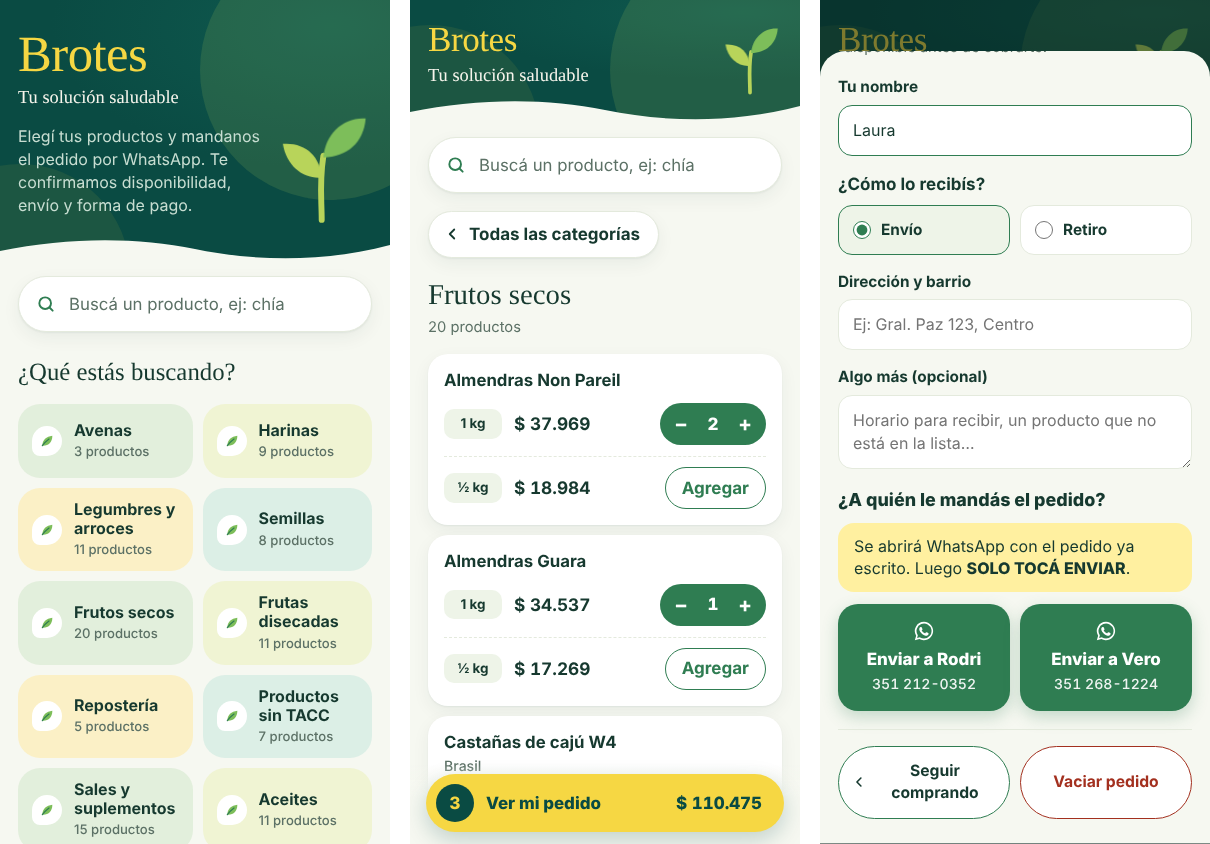
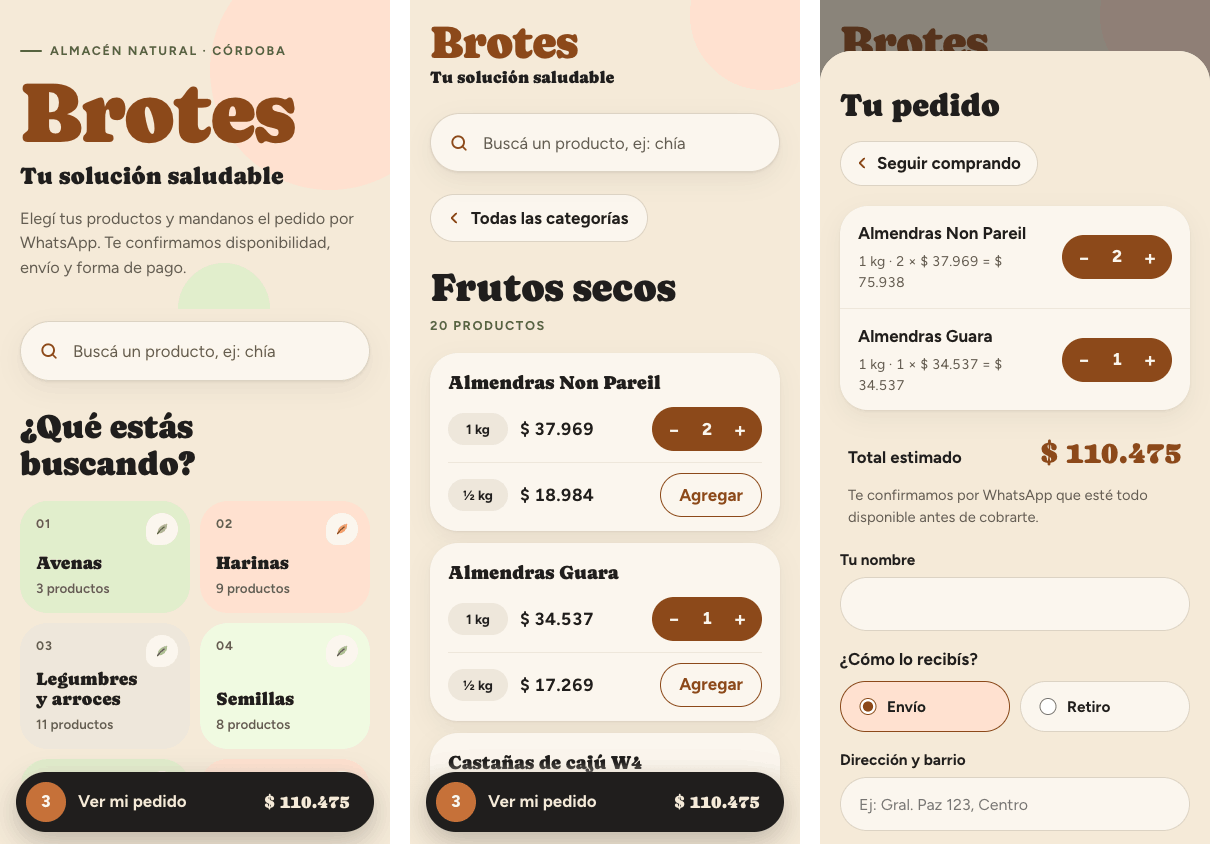
Nueva estética editorial cálida desde Claude Design
Paleta crema, terracota y salvia con Caprasimo y Figtree;
categorías numeradas y barra del pedido en tinta oscura.
El funcionamiento (pedido, WhatsApp, planilla) no cambia.

Claude-Session: https://claude.ai/code/session_01XDj7AVGkVDXmeHBmtjphLD

diff --git a/index.html b/index.html
@@ -3,55 +3,66 @@
 <head>
 <meta charset="utf-8">
 <meta name="viewport" content="width=device-width, initial-scale=1, viewport-fit=cover">
-<meta name="theme-color" content="#0A4B43">
+<meta name="theme-color" content="#F5EAD8">
 <title>Tienda Brotes</title>
 <meta name="claude:viewport-fit-sides" content="cover">
 <meta name="description" content="Brotes, tu solución saludable. Elegí tus productos y mandá tu pedido por WhatsApp.">
 <link rel="preconnect" href="https://fonts.googleapis.com">
 <link rel="preconnect" href="https://fonts.gstatic.com" crossorigin>
-<link rel="stylesheet" href="https://fonts.googleapis.com/css2?family=Bree+Serif&family=Figtree:wght@400;500;600;700;800&display=swap">
+<link rel="stylesheet" href="https://fonts.googleapis.com/css2?family=Caprasimo&family=Figtree:wght@400;500;600;700;800&display=swap">
 <style>
-/* Layout: cabecera verde de marca con un brote dibujado y borde en curva (el único gesto fuerte);
-   abajo todo calmo: fondo fresco, buscador redondo, categorías como pastillas de colores suaves, productos en tarjetas; barra amarilla del pedido */
+/* Estética "editorial cálido": papel crema, tinta cálida, terracota y salvia; Caprasimo como voz tipográfica sobre Figtree */
 :root{
-  --marca:#0A4B43; --marca-2:#0F5A4F; --hoja:#2F7D52; --amarillo:#F6D743; --lima:#B8D45A; --lima-2:#7DBE5A;
-  --fondo:#F6F8F1; --tarjeta:#FFFFFF; --tinta:#16392F; --suave:#5C7166; --linea:#E4EADD; --tenue:#EEF4E8;
-  --t1:#E2EFDC; --t2:#F0F4D3; --t3:#FBF0C6; --t4:#DCEFE6;
-  --sobre-marca:#F7F5EC; --sobre-marca-suave:#C7DDD1; --sobre-amarillo:#0A4B43; --resalte:#FFF0A0;
-  --error:#A3301F; --peligro-fondo:#FBEDE9; --sombra:0 1px 2px rgb(22 57 47 / .06), 0 6px 18px rgb(22 57 47 / .06);
-  --display:'Bree Serif', Georgia, serif; --texto:'Figtree', 'Segoe UI', system-ui, sans-serif;
+  --marca:#8C491A; --marca-2:#B2622D; --hoja:#56633F; --amarillo:#C67139; --lima:#AEBF92; --lima-2:#C67139;
+  --fondo:#F5EAD8; --tarjeta:#FBF6EE; --tinta:#201E1D; --suave:#645C50; --linea:#DCD3C4; --tenue:#EEE7DB;
+  --t1:#E1EECC; --t2:#FFE1D0; --t3:#EEE7DB; --t4:#F0FAE1;
+  --acento:#8C491A; --acento-fuerte:#643312; --acento-suave:#FFE1D0; --salvia:#56633F; --salvia-fuerte:#3D472B; --salvia-suave:#E1EECC;
+  --sobre-marca:#FBF6EE; --sobre-marca-suave:#645C50; --sobre-amarillo:#FBF6EE; --resalte:#FFE1D0;
+  --error:#A3301F; --peligro-fondo:#FBE3DC; --sombra:0 1px 2px rgb(46 43 37 / .08), 0 8px 24px rgb(46 43 37 / .07);
+  --display:'Caprasimo', Georgia, serif; --texto:'Figtree', 'Segoe UI', system-ui, sans-serif;
 }
 @media (prefers-color-scheme: dark){:root:not([data-theme="light"]){
-  --fondo:#0D211C; --tarjeta:#132F28; --tinta:#E8F1E5; --suave:#A7C0B3; --linea:#23453B; --tenue:#1A3D34;
-  --t1:#1C4136; --t2:#2A3F25; --t3:#3E3A1C; --t4:#173E37;
-  --resalte:#5A5020; --error:#FF9F91; --peligro-fondo:#3A201B; --sombra:0 1px 2px rgb(0 0 0 / .3); color-scheme:dark}}
+  --fondo:#1C1814; --tarjeta:#29231D; --tinta:#F3E9DA; --suave:#C0B6A5; --linea:#3F372E; --tenue:#342D25;
+  --t1:#2E3524; --t2:#3E2A1D; --t3:#332C24; --t4:#28301F;
+  --acento:#F6A06B; --acento-fuerte:#FFC6A5; --acento-suave:#402310; --salvia:#AEBF92; --salvia-fuerte:#CCDBB2; --salvia-suave:#272E1B;
+  --hoja:#728157; --resalte:#4A2A14; --error:#FF9F91; --peligro-fondo:#3A201B; --sombra:0 1px 2px rgb(0 0 0 / .35); color-scheme:dark}}
 :root[data-theme="dark"]{
-  --fondo:#0D211C; --tarjeta:#132F28; --tinta:#E8F1E5; --suave:#A7C0B3; --linea:#23453B; --tenue:#1A3D34;
-  --t1:#1C4136; --t2:#2A3F25; --t3:#3E3A1C; --t4:#173E37;
-  --resalte:#5A5020; --error:#FF9F91; --peligro-fondo:#3A201B; --sombra:0 1px 2px rgb(0 0 0 / .3); color-scheme:dark}
+  --fondo:#1C1814; --tarjeta:#29231D; --tinta:#F3E9DA; --suave:#C0B6A5; --linea:#3F372E; --tenue:#342D25;
+  --t1:#2E3524; --t2:#3E2A1D; --t3:#332C24; --t4:#28301F;
+  --acento:#F6A06B; --acento-fuerte:#FFC6A5; --acento-suave:#402310; --salvia:#AEBF92; --salvia-fuerte:#CCDBB2; --salvia-suave:#272E1B;
+  --hoja:#728157; --resalte:#4A2A14; --error:#FF9F91; --peligro-fondo:#3A201B; --sombra:0 1px 2px rgb(0 0 0 / .35); color-scheme:dark}
 *{box-sizing:border-box}
 [hidden]{display:none!important}
-body{margin:0;background:var(--fondo);color:var(--tinta);font-family:var(--texto);font-size:17px;line-height:1.45;-webkit-font-smoothing:antialiased}
-body::before{content:"";position:fixed;inset:0 0 auto;height:env(safe-area-inset-top,0px);z-index:30;background:var(--marca)}
-.ancho{max-width:720px;margin:0 auto;padding-left:max(18px,env(safe-area-inset-left,0px));padding-right:max(18px,env(safe-area-inset-right,0px))}
+body{margin:0;background:var(--fondo);color:var(--tinta);font-family:var(--texto);font-size:17px;line-height:1.5;-webkit-font-smoothing:antialiased}
+body::before{content:"";position:fixed;inset:0 0 auto;height:env(safe-area-inset-top,0px);z-index:30;background:var(--fondo)}
+.ancho{max-width:720px;margin:0 auto;padding-left:max(20px,env(safe-area-inset-left,0px));padding-right:max(20px,env(safe-area-inset-right,0px))}
 button,input,textarea{font:inherit;color:inherit}
-:focus-visible{outline:3px solid var(--lima-2);outline-offset:2px}
+a{color:var(--acento)} a:hover{color:var(--acento-fuerte)}
+:focus-visible{outline:3px solid var(--amarillo);outline-offset:2px}
+::selection{background:var(--acento-suave)}
 
-/* Cabecera */
-.hero{position:relative;overflow:hidden;background:radial-gradient(120% 90% at 85% 10%,var(--marca-2) 0%,var(--marca) 60%);color:var(--sobre-marca)}
-.hero .circulo{position:absolute;right:-70px;top:-60px;width:260px;height:260px;border-radius:50%;background:var(--lima);opacity:.14}
-.hero .circulo.dos{right:auto;left:-90px;top:auto;bottom:-120px;width:220px;height:220px;opacity:.08;background:var(--amarillo)}
-.hero-in{position:relative;display:grid;grid-template-columns:1fr auto;align-items:end;gap:8px;padding-block:30px 46px}
-.marca{font-family:var(--display);font-weight:400;font-size:clamp(3rem,13vw,4.4rem);line-height:.95;color:var(--amarillo);margin:0;letter-spacing:-.5px}
-.lema{font-family:var(--display);font-size:clamp(1.15rem,4.6vw,1.4rem);margin:6px 0 0;color:var(--sobre-marca)}
-.intro{margin:14px 0 0;color:var(--sobre-marca-suave);max-width:34ch;font-size:1rem}
-.brote{width:clamp(92px,26vw,132px);height:auto;margin-bottom:-6px}
-.ola{position:absolute;left:0;right:0;bottom:-1px;width:100%;height:28px;display:block}
-.ola path{fill:var(--fondo)}
-body.dentro .intro{display:none}
-body.dentro .hero-in{padding-block:20px 36px}
-body.dentro .marca{font-size:clamp(2.2rem,9vw,2.8rem)}
-body.dentro .brote{width:64px}
+/* Cabecera editorial */
+.hero{position:relative;overflow:hidden;background:var(--fondo);color:var(--tinta)}
+.hero .circulo{position:absolute;right:-60px;top:-50px;width:240px;height:240px;border-radius:50%;background:var(--acento-suave)}
+.hero .circulo.dos{right:auto;left:auto;right:120px;top:auto;bottom:-46px;width:92px;height:92px;background:var(--salvia-suave)}
+.hero-in{position:relative;display:grid;grid-template-columns:1fr auto;align-items:end;gap:8px;padding-block:34px 30px}
+.kicker{display:inline-flex;white-space:nowrap;align-items:center;gap:8px;margin:0 0 14px;font-size:.78rem;font-weight:700;letter-spacing:.14em;text-transform:uppercase;color:var(--salvia)}
+.kicker::before{content:"";width:22px;height:2px;border-radius:2px;background:currentColor}
+.marca{font-family:var(--display);font-weight:400;font-size:clamp(3.4rem,16vw,5.4rem);line-height:.9;color:var(--acento);margin:0;letter-spacing:-.02em}
+.lema{font-family:var(--display);font-size:clamp(1.2rem,5vw,1.5rem);margin:10px 0 0;color:var(--tinta);line-height:1.15}
+.intro{margin:16px 0 0;color:var(--suave);max-width:32ch;font-size:1.02rem;text-wrap:pretty}
+.brote{display:none}
+.brote .tallo{stroke:var(--salvia)}
+.brote .hoja-i{fill:var(--lima)}
+.brote .hoja-d{fill:var(--salvia)}
+.ola{display:none}
+body.dentro .intro,body.dentro .kicker{display:none}
+body.dentro .hero-in{padding-block:22px 14px}
+body.dentro .marca{font-size:clamp(2.3rem,10vw,2.9rem)}
+body.dentro .lema{font-size:1.05rem;margin-top:4px}
+body.dentro .brote{width:58px}
+body.dentro .hero .circulo{width:150px;height:150px;top:-60px;right:-40px}
+body.dentro .hero .circulo.dos{display:none}
 @media (prefers-reduced-motion:no-preference){
   .tallo{stroke-dasharray:90;stroke-dashoffset:90;animation:crece .9s .15s ease-out forwards}
   .hoja-i,.hoja-d{transform-box:fill-box;transform:scale(0);animation:abre .6s ease-out forwards}
@@ -65,110 +76,128 @@ body.dentro .brote{width:64px}
 .barra{position:sticky;top:env(safe-area-inset-top,0px);z-index:20;background:var(--fondo)}
 .barra .ancho{padding-block:12px}
 .buscar{position:relative}
-.buscar input{width:100%;padding:15px 48px 15px 50px;border:1.5px solid var(--linea);border-radius:999px;background:var(--tarjeta);font-size:1.05rem;box-shadow:var(--sombra)}
+.buscar input{width:100%;padding:16px 50px 16px 52px;border:1.5px solid var(--linea);border-radius:999px;background:var(--tarjeta);font-size:1.05rem;box-shadow:var(--sombra);transition:border-color .15s}
 .buscar input::placeholder{color:var(--suave)}
-.buscar input:focus{border-color:var(--hoja);outline:none}
+.buscar input:hover{border-color:var(--suave)}
+.buscar input:focus{border-color:var(--acento);outline:none}
 .buscar input::-webkit-search-cancel-button{display:none}
-.buscar svg{position:absolute;left:18px;top:50%;transform:translateY(-50%);width:20px;height:20px;stroke:var(--hoja)}
-.limpiar{position:absolute;right:9px;top:50%;transform:translateY(-50%);width:36px;height:36px;border:0;border-radius:999px;background:var(--tenue);cursor:pointer;font-size:1.15rem;line-height:1}
+.buscar svg{position:absolute;left:19px;top:50%;transform:translateY(-50%);width:20px;height:20px;stroke:var(--acento)}
+.limpiar{position:absolute;right:9px;top:50%;transform:translateY(-50%);width:38px;height:38px;border:0;border-radius:999px;background:var(--tenue);cursor:pointer;font-size:1.2rem;line-height:1}
+.limpiar:hover{background:var(--linea)}
 
-/* Inicio: categorías */
-main .ancho{padding-block:6px 150px;display:flex;flex-direction:column;gap:28px}
-.preg{font-family:var(--display);font-weight:400;font-size:1.55rem;margin:4px 0 14px;text-wrap:balance}
-.pastillas{display:grid;grid-template-columns:1fr 1fr;gap:10px}
-.pastilla{display:flex;align-items:center;gap:12px;min-height:74px;padding:12px 14px;border:0;border-radius:22px;cursor:pointer;text-align:left;color:var(--tinta);background:var(--t1);transition:transform .12s}
+/* Inicio: categorías como índice editorial */
+main .ancho{padding-block:10px 150px;display:flex;flex-direction:column;gap:32px}
+.preg{font-family:var(--display);font-weight:400;font-size:clamp(1.7rem,7vw,2.1rem);line-height:1.1;margin:6px 0 18px;text-wrap:balance;letter-spacing:-.01em}
+.pastillas{display:grid;grid-template-columns:1fr 1fr;gap:10px;counter-reset:cat}
+.pastilla{counter-increment:cat;position:relative;display:flex;flex-direction:column;justify-content:flex-end;gap:2px;min-height:112px;padding:16px 16px 15px;border:0;border-radius:28px;cursor:pointer;text-align:left;color:var(--tinta);background:var(--t1);transition:transform .12s,filter .15s}
 .pastilla:nth-child(4n+2){background:var(--t2)}
 .pastilla:nth-child(4n+3){background:var(--t3)}
 .pastilla:nth-child(4n+4){background:var(--t4)}
-.pastilla .sem{flex:none;width:30px;height:30px;border-radius:50% 50% 50% 8px;background:var(--tarjeta);display:grid;place-items:center}
+.pastilla::before{content:counter(cat,decimal-leading-zero);position:absolute;top:14px;left:16px;font-size:.78rem;font-weight:700;letter-spacing:.08em;color:var(--suave);font-variant-numeric:tabular-nums}
+.pastilla .sem{position:absolute;top:12px;right:12px;width:32px;height:32px;border-radius:50% 50% 50% 10px;background:var(--tarjeta);display:grid;place-items:center}
 .pastilla .sem svg{width:16px;height:16px}
-.pastilla .txt{display:flex;flex-direction:column;min-width:0}
-.pastilla b{font-weight:700;font-size:1rem;line-height:1.2}
-.pastilla small{font-size:.82rem;color:var(--suave);font-weight:500;margin-top:2px}
+.pastilla .sem svg path:first-child{fill:var(--lima)}
+.pastilla .sem svg path:last-child{stroke:var(--salvia)}
+.pastilla:nth-child(4n+2) .sem svg path:first-child{fill:#F6A06B}
+.pastilla:nth-child(4n+2) .sem svg path:last-child{stroke:#8C491A}
+.pastilla .txt{display:flex;flex-direction:column;min-width:0;padding-top:30px}
+.pastilla b{font-family:var(--display);font-weight:400;font-size:1.14rem;line-height:1.12;text-wrap:balance}
+.pastilla small{font-size:.84rem;color:var(--suave);font-weight:600;margin-top:4px}
+.pastilla:hover{filter:brightness(.97)}
 .pastilla:active{transform:scale(.97)}
 @media (min-width:620px){.pastillas{grid-template-columns:repeat(3,1fr)}}
 
 /* Lista de productos */
 .vista{display:flex;flex-direction:column;gap:14px}
-.volver{align-self:flex-start;display:inline-flex;align-items:center;gap:8px;border:1.5px solid var(--linea);background:var(--tarjeta);color:var(--tinta);border-radius:999px;padding:10px 18px 10px 14px;font-weight:700;cursor:pointer;box-shadow:var(--sombra)}
-.volver svg{width:18px;height:18px}
-.titulo-lista{font-family:var(--display);font-weight:400;font-size:1.8rem;line-height:1.15;margin:6px 0 0;text-wrap:balance}
-.cuantos{margin:-8px 0 2px;color:var(--suave);font-size:.92rem}
-.lista{display:flex;flex-direction:column;gap:10px}
-.prod{background:var(--tarjeta);border-radius:20px;padding:16px;display:flex;flex-direction:column;gap:10px;box-shadow:var(--sombra)}
-.prod h3{margin:0;font-size:1.05rem;font-weight:700;line-height:1.3}
-.prod .det{display:block;font-weight:500;font-size:.88rem;color:var(--suave);margin-top:3px}
-.prod .de{font-size:.8rem;font-weight:600;color:var(--hoja)}
-.opt{display:grid;grid-template-columns:auto 1fr auto;align-items:center;gap:12px;min-height:44px}
-.opt+.opt{border-top:1px dashed var(--linea);padding-top:10px}
-.pres{font-size:.84rem;font-weight:700;background:var(--tenue);border-radius:10px;padding:5px 9px;min-width:58px;text-align:center}
-.precio{font-variant-numeric:tabular-nums;font-weight:700;font-size:1.08rem}
+.volver{align-self:flex-start;display:inline-flex;align-items:center;gap:8px;border:1.5px solid var(--linea);background:var(--tarjeta);color:var(--tinta);border-radius:999px;padding:10px 18px 10px 14px;font-weight:700;cursor:pointer}
+.volver:hover{border-color:var(--suave)}
+.volver svg{width:18px;height:18px;color:var(--acento)}
+.titulo-lista{font-family:var(--display);font-weight:400;font-size:clamp(2rem,8vw,2.5rem);line-height:1.05;margin:10px 0 0;text-wrap:balance;letter-spacing:-.01em}
+.cuantos{margin:-6px 0 4px;color:var(--salvia);font-size:.8rem;font-weight:700;letter-spacing:.12em;text-transform:uppercase}
+.lista{display:flex;flex-direction:column;gap:12px}
+.prod{background:var(--tarjeta);border-radius:28px;padding:18px 18px 14px;display:flex;flex-direction:column;gap:10px;box-shadow:var(--sombra)}
+.prod h3{margin:0 0 2px;font-family:var(--display);font-weight:400;font-size:1.2rem;line-height:1.2;letter-spacing:-.005em}
+.prod .det{display:block;font-family:var(--texto);font-weight:500;font-size:.9rem;color:var(--suave);margin-top:4px;line-height:1.4}
+.prod .de{align-self:flex-start;font-size:.74rem;font-weight:700;letter-spacing:.1em;text-transform:uppercase;color:var(--salvia);background:var(--salvia-suave);border-radius:999px;padding:3px 10px}
+.opt{display:grid;grid-template-columns:auto 1fr auto;align-items:center;gap:12px;min-height:46px}
+.opt+.opt{border-top:1px solid var(--tenue);padding-top:10px}
+.pres{font-size:.84rem;font-weight:700;background:var(--tenue);border-radius:999px;padding:6px 10px;min-width:60px;text-align:center}
+.precio{font-variant-numeric:tabular-nums;font-weight:700;font-size:1.1rem}
 .sin{font-size:.85rem;font-weight:700;color:var(--error)}
-.agregar{border:1.5px solid var(--hoja);background:var(--tarjeta);color:var(--hoja);border-radius:999px;height:42px;padding:0 16px;font-weight:700;cursor:pointer;white-space:nowrap}
-.agregar:disabled{border-color:var(--linea);color:var(--suave);cursor:default}
-.paso{display:flex;align-items:center;border-radius:999px;background:var(--hoja);color:#FFFFFF}
-.paso button{width:42px;height:42px;border:0;background:none;color:inherit;font-size:1.3rem;font-weight:700;cursor:pointer;border-radius:999px}
+.agregar{border:1.5px solid var(--acento);background:transparent;color:var(--acento);border-radius:999px;height:44px;padding:0 18px;font-weight:700;cursor:pointer;white-space:nowrap;transition:background .15s}
+.agregar:hover:not(:disabled){background:var(--acento-suave)}
+.agregar:disabled{border-color:var(--linea);color:var(--suave);cursor:default;opacity:.7}
+.paso{display:flex;align-items:center;border-radius:999px;background:var(--acento);color:var(--tarjeta)}
+.paso button{width:44px;height:44px;border:0;background:none;color:inherit;font-size:1.3rem;font-weight:700;cursor:pointer;border-radius:999px}
+.paso button:hover{background:rgb(0 0 0 / .12)}
 .paso output{min-width:22px;text-align:center;font-weight:800;font-variant-numeric:tabular-nums}
-.vacio{padding:26px;text-align:center;color:var(--suave);background:var(--tarjeta);border-radius:20px;margin:0}
+.vacio{padding:28px;text-align:center;color:var(--suave);background:var(--tarjeta);border-radius:28px;margin:0;text-wrap:pretty}
 
-.pie{color:var(--suave);font-size:.92rem;display:flex;flex-direction:column;gap:6px;padding-top:18px;border-top:1px solid var(--linea)}
-.pie p{margin:0}
-.pie strong{color:var(--tinta)}
+.pie{color:var(--suave);font-size:.94rem;display:flex;flex-direction:column;gap:6px;padding:22px;border-radius:28px;background:var(--tenue)}
+.pie p{margin:0;text-wrap:pretty}
+.pie strong{color:var(--tinta);font-family:var(--display);font-weight:400;font-size:1.15rem;display:block;margin-bottom:2px}
 .credito{margin-top:10px!important;font-size:.82rem}
 .credito a{color:inherit}
 
 /* Barra del pedido */
 .carrito{position:fixed;left:0;right:0;bottom:0;z-index:25;padding:10px max(16px,env(safe-area-inset-right,0px)) calc(12px + env(safe-area-inset-bottom,0px)) max(16px,env(safe-area-inset-left,0px));background:linear-gradient(to top,var(--fondo) 60%,transparent)}
-.carrito button{display:flex;align-items:center;gap:12px;width:100%;max-width:688px;margin:0 auto;border:0;border-radius:999px;padding:10px 22px 10px 10px;background:var(--amarillo);color:var(--sobre-amarillo);font-weight:800;font-size:1.06rem;cursor:pointer;box-shadow:0 8px 22px rgb(10 75 67 / .22)}
-.carrito .n{display:grid;place-items:center;min-width:38px;height:38px;padding:0 8px;border-radius:999px;background:var(--marca);color:var(--amarillo);font-variant-numeric:tabular-nums}
-.carrito .tot{margin-left:auto;font-variant-numeric:tabular-nums}
+.carrito button{display:flex;align-items:center;gap:12px;width:100%;max-width:688px;margin:0 auto;border:0;border-radius:999px;padding:10px 24px 10px 10px;background:var(--tinta);color:var(--fondo);font-weight:700;font-size:1.06rem;cursor:pointer;box-shadow:0 10px 28px rgb(46 43 37 / .28)}
+.carrito .n{display:grid;place-items:center;min-width:40px;height:40px;padding:0 8px;border-radius:999px;background:#C67139;color:#FBF6EE;font-weight:800;font-variant-numeric:tabular-nums}
+.carrito .tot{margin-left:auto;font-family:var(--display);font-weight:400;font-size:1.15rem;font-variant-numeric:tabular-nums}
 @media (prefers-reduced-motion:no-preference){.carrito:not([hidden]) button{animation:asoma .25s ease-out}@keyframes asoma{from{transform:translateY(16px)}to{transform:none}}}
 
 /* Hoja del pedido */
-.velo{position:fixed;inset:0;z-index:40;background:rgb(6 30 25 / .5);display:flex;align-items:flex-end;justify-content:center}
-.hoja{background:var(--fondo);width:100%;max-width:620px;max-height:94%;overflow-y:auto;border-radius:26px 26px 0 0;padding:10px max(18px,env(safe-area-inset-right,0px)) calc(24px + env(safe-area-inset-bottom,0px)) max(18px,env(safe-area-inset-left,0px));display:flex;flex-direction:column;gap:18px}
+.velo{position:fixed;inset:0;z-index:40;background:rgb(32 30 29 / .5);display:flex;align-items:flex-end;justify-content:center}
+.hoja{background:var(--fondo);width:100%;max-width:620px;max-height:94%;overflow-y:auto;border-radius:32px 32px 0 0;padding:10px max(20px,env(safe-area-inset-right,0px)) calc(24px + env(safe-area-inset-bottom,0px)) max(20px,env(safe-area-inset-left,0px));display:flex;flex-direction:column;gap:20px}
 .hoja::before{content:"";align-self:center;width:44px;height:5px;border-radius:9px;background:var(--linea)}
-@media (min-width:700px){.velo{align-items:center}.hoja{border-radius:26px;max-height:90%}.hoja::before{display:none}}
+@media (min-width:700px){.velo{align-items:center}.hoja{border-radius:32px;max-height:90%}.hoja::before{display:none}}
 @media (prefers-reduced-motion:no-preference){.hoja{animation:sube .24s ease-out}@keyframes sube{from{transform:translateY(28px)}to{transform:none}}}
 .hoja-cab{display:flex;justify-content:space-between;align-items:center;gap:12px;flex-wrap:wrap}
-.hoja h2{font-family:var(--display);font-weight:400;font-size:1.7rem;margin:0}
-.seguir{display:inline-flex;align-items:center;gap:6px;border:1.5px solid var(--hoja);background:var(--tarjeta);color:var(--tinta);border-radius:999px;padding:9px 16px 9px 12px;font-weight:700;cursor:pointer}
-.seguir svg,.btn-seguir svg{width:18px;height:18px}
-.items{display:flex;flex-direction:column;background:var(--tarjeta);border-radius:20px;box-shadow:var(--sombra)}
-.item{display:grid;grid-template-columns:1fr auto;gap:4px 12px;padding:14px 16px;align-items:center}
-.item+.item{border-top:1px solid var(--linea)}
+.hoja h2{font-family:var(--display);font-weight:400;font-size:2rem;margin:0;letter-spacing:-.01em}
+.seguir{display:inline-flex;align-items:center;gap:6px;border:1.5px solid var(--linea);background:var(--tarjeta);color:var(--tinta);border-radius:999px;padding:9px 16px 9px 12px;font-weight:700;cursor:pointer}
+.seguir:hover{border-color:var(--suave)}
+.seguir svg,.btn-seguir svg{width:18px;height:18px;color:var(--acento)}
+.items{display:flex;flex-direction:column;background:var(--tarjeta);border-radius:28px;box-shadow:var(--sombra)}
+.item{display:grid;grid-template-columns:1fr auto;gap:4px 12px;padding:15px 18px;align-items:center}
+.item+.item{border-top:1px solid var(--tenue)}
 .item .nom{font-weight:700;min-width:0}
 .item .sub{font-size:.88rem;color:var(--suave);font-variant-numeric:tabular-nums}
 .item .paso{grid-row:span 2}
-.total{display:flex;justify-content:space-between;align-items:baseline;font-weight:800;font-size:1.2rem;font-variant-numeric:tabular-nums;padding:0 6px}
-.total span:last-child{font-size:1.45rem}
-.aviso{font-size:.92rem;color:var(--suave);margin:-10px 6px 0}
+.total{display:flex;justify-content:space-between;align-items:baseline;font-weight:700;font-size:1.05rem;font-variant-numeric:tabular-nums;padding:0 8px}
+.total span:last-child{white-space:nowrap;font-family:var(--display);font-weight:400;font-size:1.9rem;color:var(--acento)}
+.aviso{font-size:.92rem;color:var(--suave);margin:-12px 8px 0}
 fieldset{border:0;margin:0;padding:0;display:flex;flex-direction:column;gap:16px}
 .etq{margin:0 0 8px;font-weight:700}
 label{display:flex;flex-direction:column;gap:6px;font-weight:700;font-size:.96rem}
-.campo{padding:13px 14px;border:1.5px solid var(--linea);border-radius:14px;background:var(--tarjeta);font-weight:400;font-size:1rem}
-.campo:focus{border-color:var(--hoja);outline:none}
-textarea.campo{resize:vertical;min-height:68px}
+.campo{padding:14px 18px;border:1.5px solid var(--linea);border-radius:20px;background:var(--tarjeta);font-weight:400;font-size:1rem}
+input.campo{border-radius:999px}
+.campo:hover{border-color:var(--suave)}
+.campo:focus{border-color:var(--acento);outline:none}
+textarea.campo{resize:vertical;min-height:72px}
 .campo[aria-invalid="true"]{border-color:var(--error)}
 .err{color:var(--error);font-size:.9rem;font-weight:600}
 .opciones{display:grid;grid-template-columns:1fr 1fr;gap:10px}
-.opciones label{flex-direction:row;align-items:center;gap:10px;border:1.5px solid var(--linea);border-radius:14px;padding:13px 14px;background:var(--tarjeta);cursor:pointer;font-weight:700}
-.opciones label:has(input:checked){border-color:var(--hoja);background:var(--tenue)}
-.opciones input{accent-color:var(--hoja);margin:0;width:18px;height:18px}
+.opciones label{flex-direction:row;align-items:center;gap:10px;border:1.5px solid var(--linea);border-radius:999px;padding:13px 18px;background:var(--tarjeta);cursor:pointer;font-weight:700}
+.opciones label:hover{border-color:var(--suave)}
+.opciones label:has(input:checked){border-color:var(--acento);background:var(--acento-suave)}
+.opciones input{accent-color:var(--acento);margin:0;width:18px;height:18px}
 .envio-cab{display:flex;flex-direction:column;gap:10px;margin-bottom:12px}
-.envio-cab h3{margin:0;font-size:1.12rem;font-weight:800}
-.clave{margin:0;background:var(--resalte);border-radius:16px;padding:12px 16px;font-size:1rem;line-height:1.4}
+.envio-cab h3{margin:0;font-family:var(--display);font-weight:400;font-size:1.35rem;line-height:1.15}
+.clave{margin:0;background:var(--resalte);border-radius:20px;padding:13px 18px;font-size:1rem;line-height:1.4}
 .clave strong{font-weight:800}
 .enviar{display:grid;grid-template-columns:1fr 1fr;gap:10px}
-.wa{display:flex;flex-direction:column;align-items:center;gap:3px;text-decoration:none;border-radius:20px;padding:16px 10px;background:var(--hoja);color:#FFFFFF;font-weight:800;font-size:1.06rem;text-align:center;box-shadow:0 6px 16px rgb(47 125 82 / .25)}
-.wa svg{width:22px;height:22px;margin-bottom:2px}
-.wa span{font-weight:500;font-size:.88rem;opacity:.92;font-variant-numeric:tabular-nums}
+.wa{display:flex;flex-direction:column;align-items:center;gap:3px;text-decoration:none;border-radius:28px;padding:18px 10px;background:#56633F;color:#FBF6EE;font-weight:800;font-size:1.06rem;text-align:center;box-shadow:0 8px 20px rgb(61 71 43 / .28);transition:background .15s}
+.wa:hover{background:#3D472B;color:#FBF6EE}
+.wa svg{width:24px;height:24px;margin-bottom:2px}
+.wa span{font-weight:500;font-size:.88rem;opacity:.9;font-variant-numeric:tabular-nums}
 .wa:active{transform:scale(.98)}
-.acciones{display:grid;grid-template-columns:1fr 1fr;gap:10px;padding-top:16px;border-top:1px solid var(--linea)}
+.acciones{display:grid;grid-template-columns:1fr 1fr;gap:10px;padding-top:6px}
 .acciones button{display:inline-flex;align-items:center;justify-content:center;gap:6px;border-radius:999px;padding:13px 12px;font-weight:700;cursor:pointer;font-size:.98rem}
-.btn-seguir{border:1.5px solid var(--hoja);background:var(--tarjeta);color:var(--tinta)}
-.btn-vaciar{border:1.5px solid var(--error);background:var(--tarjeta);color:var(--error)}
-.confirmar{grid-column:1/-1;background:var(--peligro-fondo);border-radius:20px;padding:16px;display:flex;flex-direction:column;gap:12px}
+.btn-seguir{border:1.5px solid var(--linea);background:var(--tarjeta);color:var(--tinta)}
+.btn-seguir:hover{border-color:var(--suave)}
+.btn-vaciar{border:1.5px solid transparent;background:transparent;color:var(--error)}
+.btn-vaciar:hover{background:var(--peligro-fondo)}
+.confirmar{grid-column:1/-1;background:var(--peligro-fondo);border-radius:28px;padding:18px;display:flex;flex-direction:column;gap:12px}
 .confirmar p{margin:0;font-weight:700}
 .confirmar div{display:grid;grid-template-columns:1fr 1fr;gap:10px}
 .btn-si{border:0;background:var(--error);color:#FFFFFF}
@@ -180,6 +209,7 @@ textarea.campo{resize:vertical;min-height:68px}
   <span class="circulo" aria-hidden="true"></span><span class="circulo dos" aria-hidden="true"></span>
   <div class="ancho hero-in">
     <div>
+      <p class="kicker">Almacén natural · Córdoba</p>
       <h1 class="marca">Brotes</h1>
       <p class="lema">Tu solución saludable</p>
       <p class="intro">Elegí tus productos y mandanos el pedido por WhatsApp. Te confirmamos disponibilidad, envío y forma de pago.</p>
